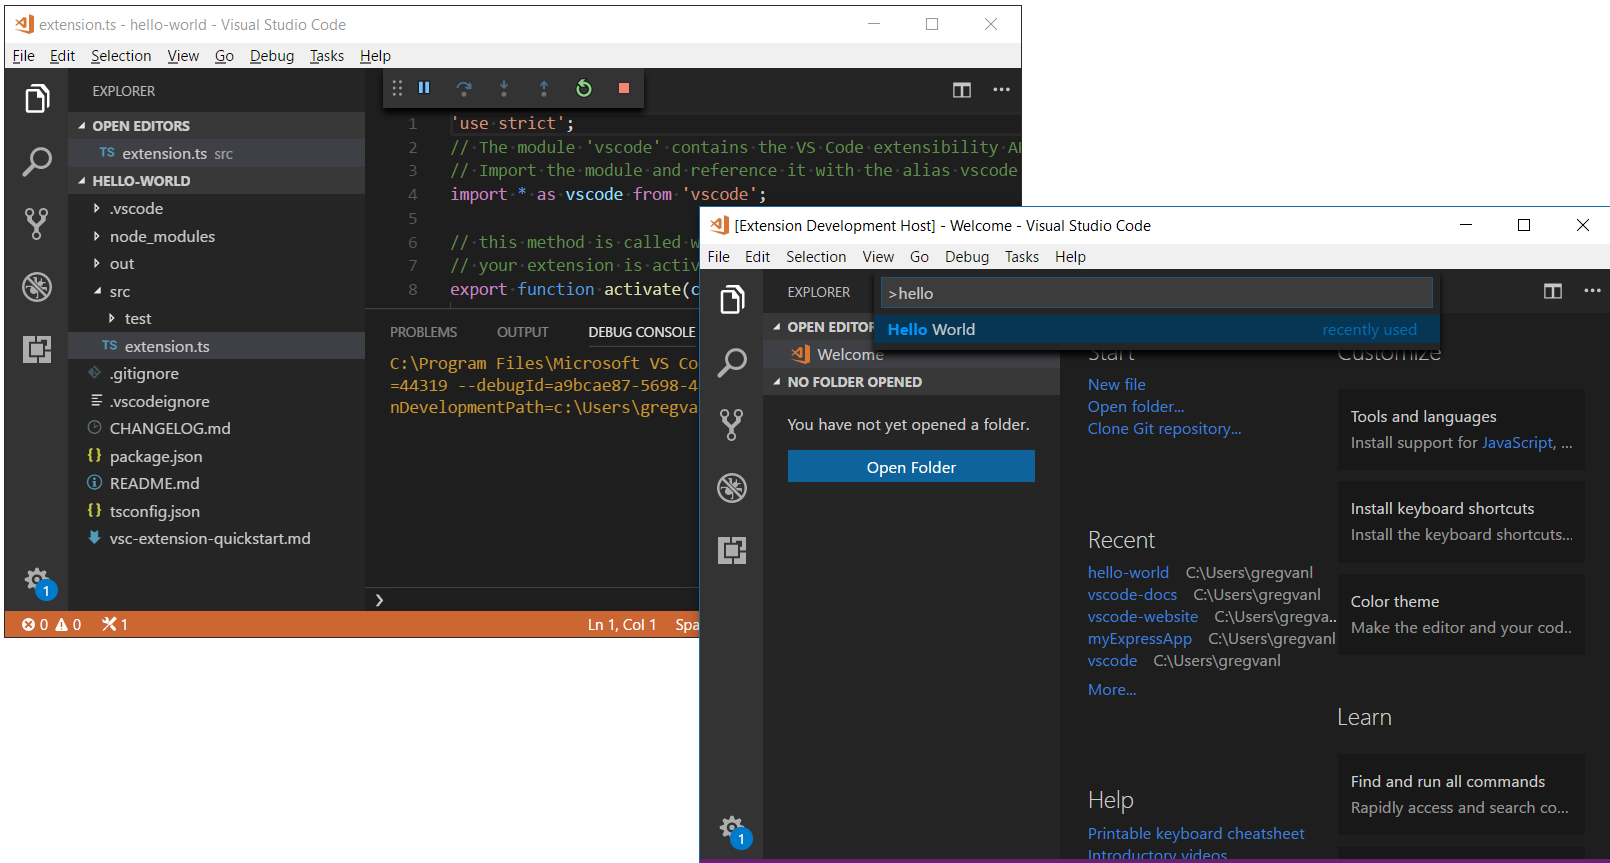
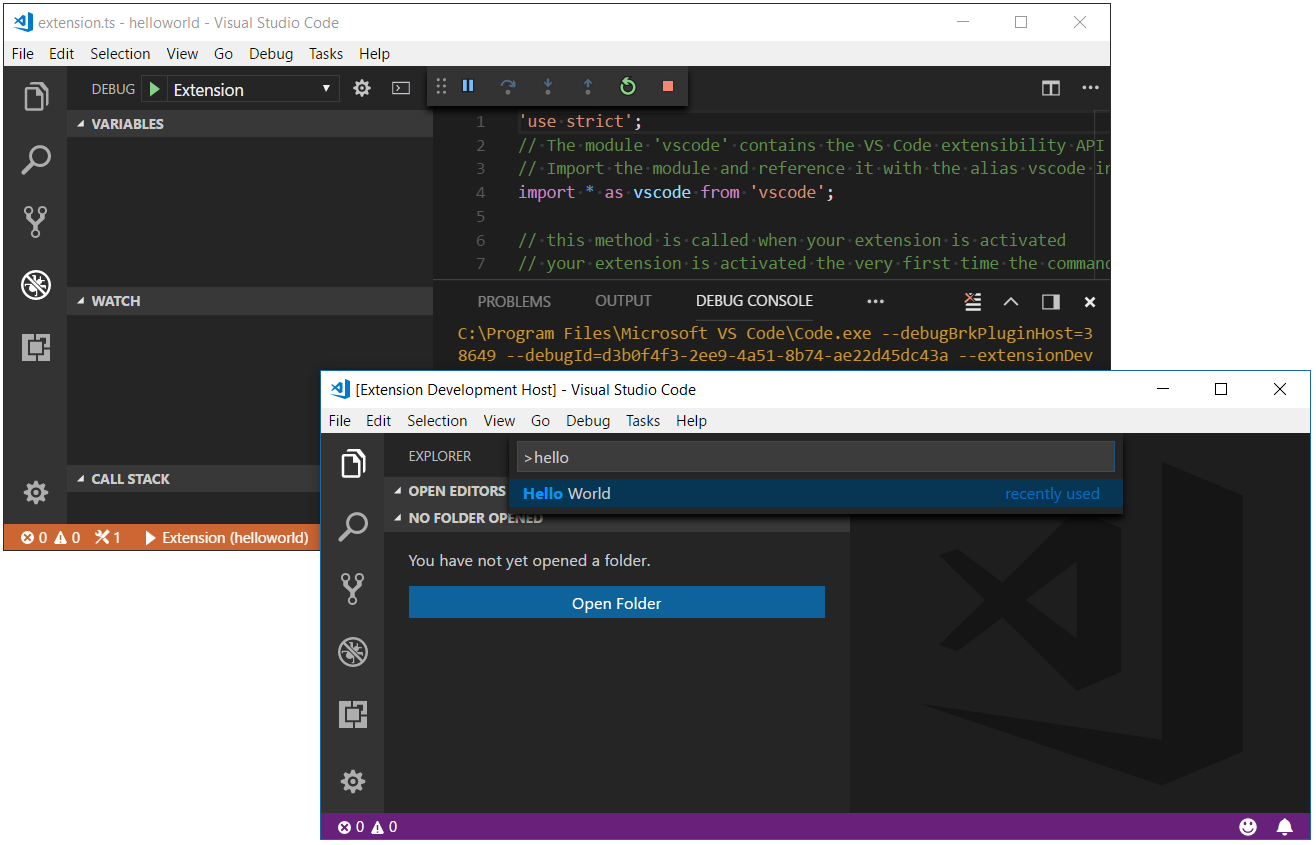
Update extensions hello world example Fixes #1466

diff --git a/docs/extensions/example-hello-world.md b/docs/extensions/example-hello-world.md
@@ -82,10 +82,10 @@ Let's go through the purpose of all these files and explain what they do:
 
 ### The extension manifest: `package.json`
 
-* Please read the [`package.json` extension manifest reference](/docs/extensionAPI/extension-manifest.md)
-* More information on [`package.json` contribution points](/docs/extensionAPI/extension-points.md)
 * Each VS Code extension must have a `package.json` file that describes it and its capabilities.
 * VS Code reads this file during start-up and reacts to each `contributes` section immediately.
+* Please read the [`package.json` extension manifest reference](/docs/extensionAPI/extension-manifest.md)
+* More information on [`package.json` contribution points](/docs/extensionAPI/extension-points.md)
 
 #### Example TypeScript extension manifest
 
@@ -156,7 +156,7 @@ export function activate(context: vscode.ExtensionContext) {
     // The command has been defined in the package.json file
     // Now provide the implementation of the command with  registerCommand
     // The commandId parameter must match the command field in package.json
-    var disposable = vscode.commands.registerCommand('extension.sayHello', () => {
+    let disposable = vscode.commands.registerCommand('extension.sayHello', () => {
         // The code you place here will be executed every time your command is executed
 
         // Display a message box to the user
@@ -220,16 +220,20 @@ To learn more about the extension [development environment](/docs/extensions/deb
 In `extension.ts` (or `extension.js`, in a JavaScript extension), try replacing the `extension.sayHello` command implementation to show the number of characters selected in the editor:
 
 ```javascript
-var editor = vscode.window.activeTextEditor;
-if (!editor) {
-    return; // No open text editor
-}
+    let disposable = vscode.commands.registerCommand('extension.sayHello', () => {
+        // The code you place here will be executed every time your command is executed
 
-var selection = editor.selection;
-var text = editor.document.getText(selection);
+        let editor = vscode.window.activeTextEditor;
+        if (!editor) {
+            return; // No open text editor
+        }
 
-// Display a message box to the user
-vscode.window.showInformationMessage('Selected characters: ' + text.length);
+        let selection = editor.selection;
+        let text = editor.document.getText(selection);
+
+        // Display a message box to the user
+        vscode.window.showInformationMessage('Selected characters: ' + text.length);
+    });
 ```
 
 > **Tip:** Once you make changes to the extension source code, you need to restart the **Extension Development Host** instance of VS Code. You can do that by using `kbstyle(Ctrl+R)` (macOS: `kbstyle(Cmd+R)`) in the **Extension Development Host** instance or by clicking the **Restart** button at the top of your primary VS Code instance.
